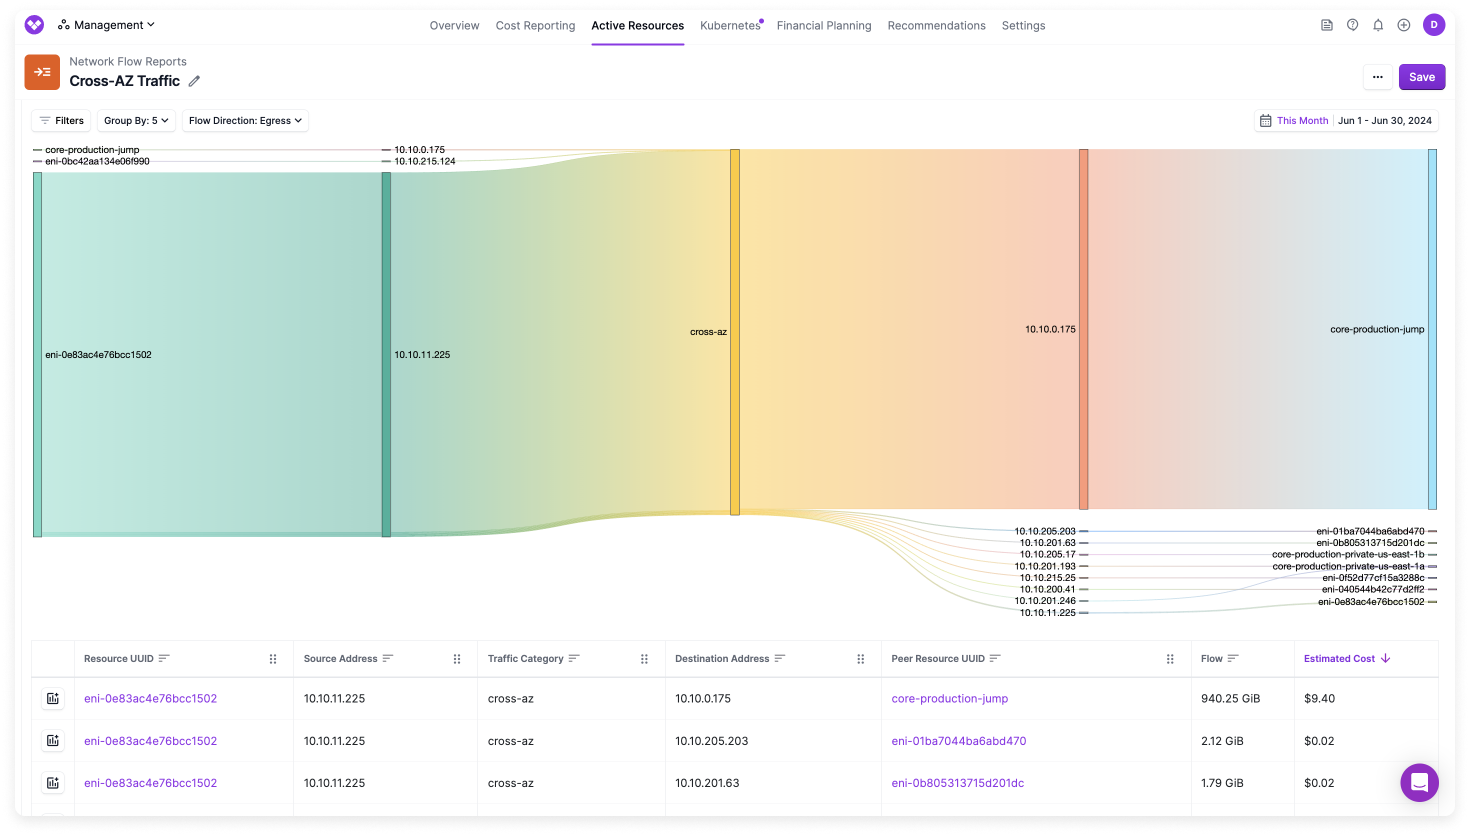
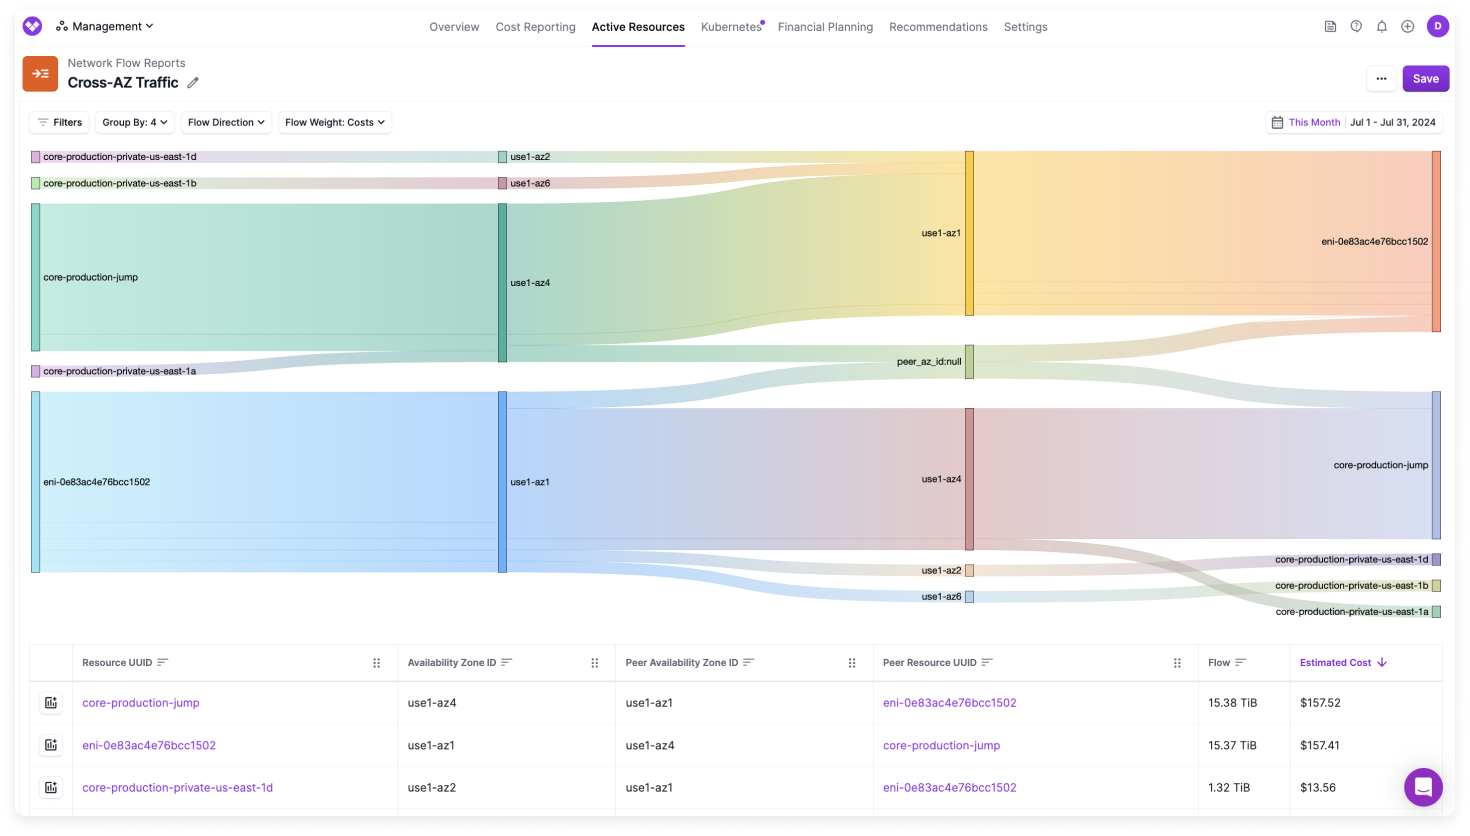
Update report pic and description

diff --git a/docs/network_flow_reports.md b/docs/network_flow_reports.md
@@ -517,7 +517,7 @@ The **All Network Flow Logs** report shows all your network flows. The flow’s 
 
 Cross-AZ data transfer within AWS incurs higher costs compared to intra-AZ data transfer. [According to AWS](https://aws.amazon.com/ec2/pricing/on-demand/#Data_Transfer), “For data transferred between a Local Zone and an Availability Zone within the same AWS Region, "in" to and "out" from Amazon EC2 in the Local Zone” data is charged at $0.01/GB for _both_ transfer in and transfer out. Transferring data between AZs requires more network bandwidth compared to transferring data within the same AZ. This additional bandwidth consumption contributes to higher costs.
 
-In the provided cross-AZ report, you can view all cross-AZ traffic along with flow size and estimated cost. The **Destination Address** column shows exactly where the traffic is flowing.
+In the provided cross-AZ report, you can view all cross-AZ traffic along with flow size and estimated cost. The **Peer Availability Zone ID** column shows exactly where the traffic is flowing. You can see both the source and peer AZs along with the associated source and peer resources.
 
 <div style={{display:"flex", justifyContent:"center"}}>
     <img alt="Sample Network Flow Report with all cross-AZ traffic" width="100%" src="/img/nfr-az.png" />
